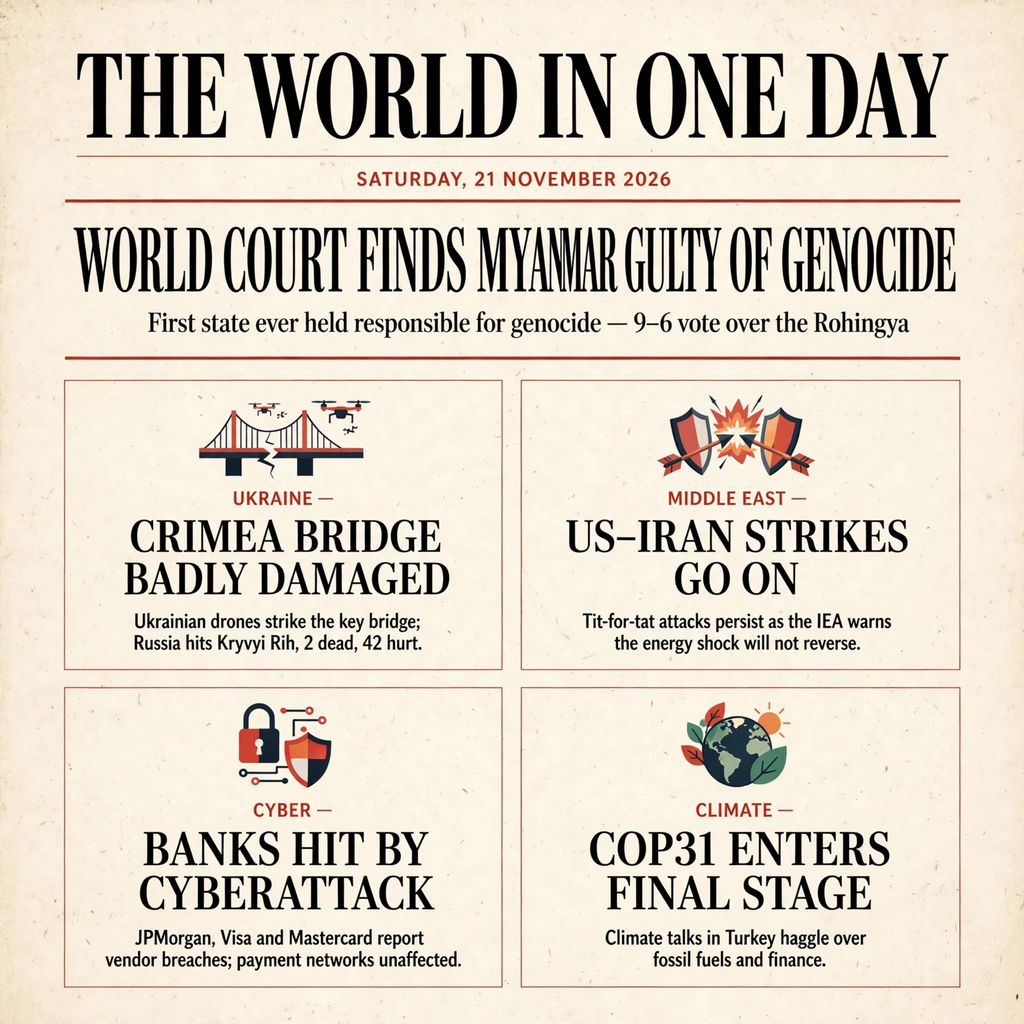
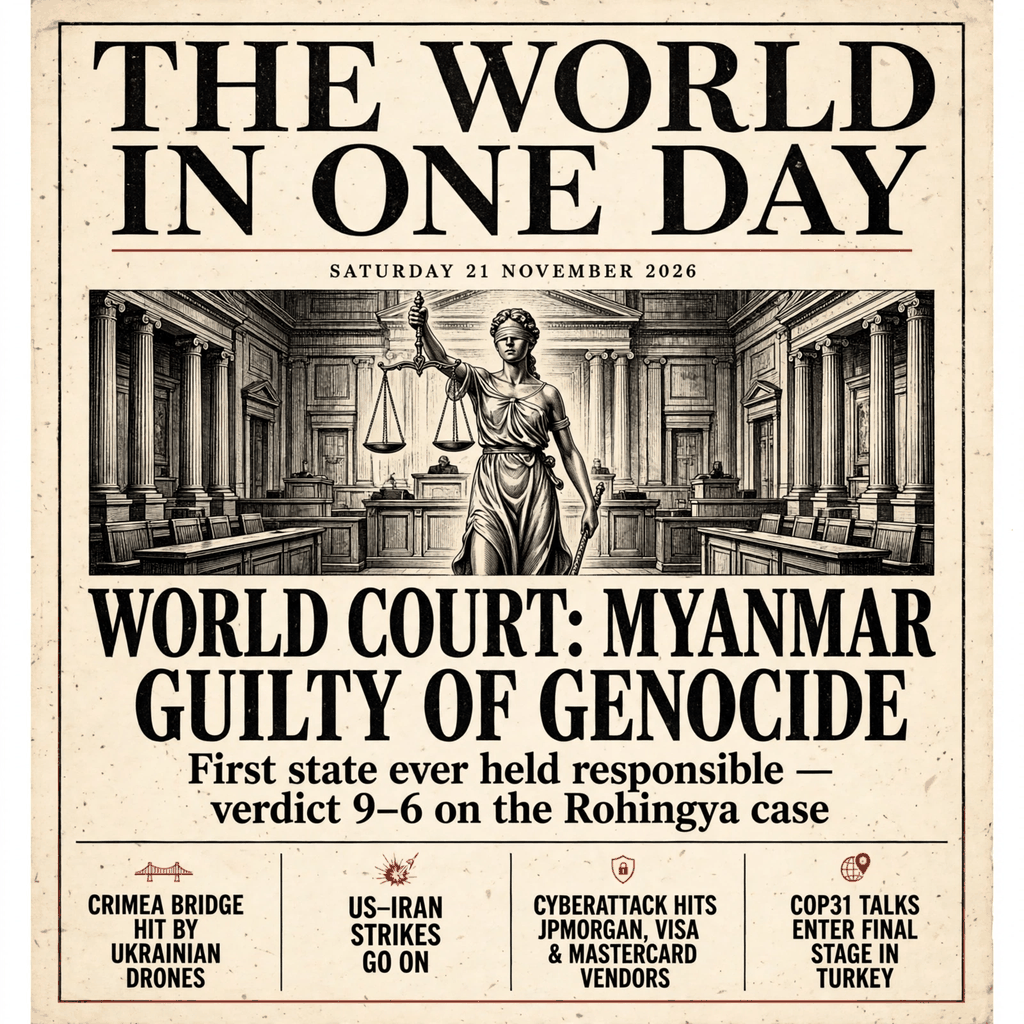
Redesign: dominant lead visual, large headlines only

diff --git a/main.ts b/main.ts
@@ -1,14 +1,33 @@
 // The World in One Day — Saturday 21 November 2026.
 // A newspaper front page summing up the day's world news in one image.
+// Revised design: instead of dense columns of small print, the page is one
+// bold front page — a dominant engraving-style Lady Justice illustration for
+// the lead story (the World Court's genocide verdict on Myanmar), a single
+// huge headline plus one short sub-headline, and a bottom strip of four
+// large, short secondary headlines. No small body text anywhere.
 // The image (entry.png, 1024x1024 PNG) is held in this repository; this
 // program deterministically copies it to $MAKEFUN_OUTPUT_DIR/entry.png
-// (default /output/entry.png). Node 22 standard library only, no network.
+// (default /output/entry.png) and then verifies the copy's integrity by
+// comparing file sizes. Node 22 standard library only, no network.
 // Byte-identical on every run: the output is an exact copy of entry.png.
-import { copyFileSync, mkdirSync } from 'node:fs';
+import { copyFileSync, mkdirSync, statSync } from 'node:fs';
 import { dirname, join } from 'node:path';
 import { fileURLToPath } from 'node:url';
 
 const here = dirname(fileURLToPath(import.meta.url));
+const srcPath = join(here, 'entry.png');
 const outDir = process.env.MAKEFUN_OUTPUT_DIR ?? '/output';
+const outPath = join(outDir, 'entry.png');
+
 mkdirSync(outDir, { recursive: true });
-copyFileSync(join(here, 'entry.png'), join(outDir, 'entry.png'));
+copyFileSync(srcPath, outPath);
+
+// Integrity check: the delivered file must be a complete, exact-size copy
+// of the poster held in this repository — a truncated copy is a hard error.
+const srcSize = statSync(srcPath).size;
+const outSize = statSync(outPath).size;
+if (outSize !== srcSize) {
+  throw new Error(
+    `Integrity check failed: output is ${outSize} bytes, expected ${srcSize} bytes (exact copy of entry.png).`
+  );
+}

diff --git a/README.md b/README.md
@@ -6,6 +6,10 @@
 
 The World in One Day — a newspaper front page summing up Saturday 21 November 2026 in one image: the World Court finding Myanmar guilty of genocide against the Rohingya (the first state ever held responsible for genocide, 9–6 vote), the Crimea Bridge badly damaged by Ukrainian drones, US–Iran tit-for-tat strikes going on, JPMorgan, Visa and Mastercard hit by a cyberattack on third-party vendors, and COP31 entering its final stage in Turkey. The image is held in this repository as `entry.png` (1024×1024); `main.ts` (Node 22, standard library only, no network) deterministically copies it to `/output/entry.png`, byte-identical on every run.
 
+## Design
+
+Earlier editions of this front page used dense columns of small print, which read poorly and risked garbled lettering. This edition is redesigned around a single dominant lead visual — an engraving-style Lady Justice in a courtroom for the World Court verdict — with one huge headline, one short sub-headline, and a bottom strip of four large, short secondary headlines with small icons. There is no small body text anywhere on the page, so every word stays large, crisp and exactly spelled.
+
 ## Run it
 
 ```sh
